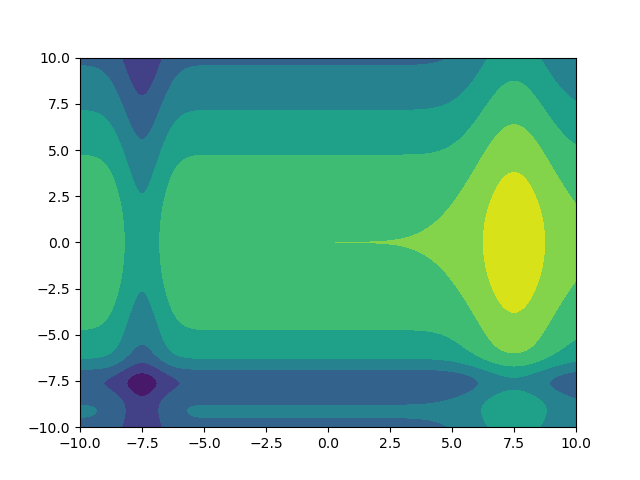
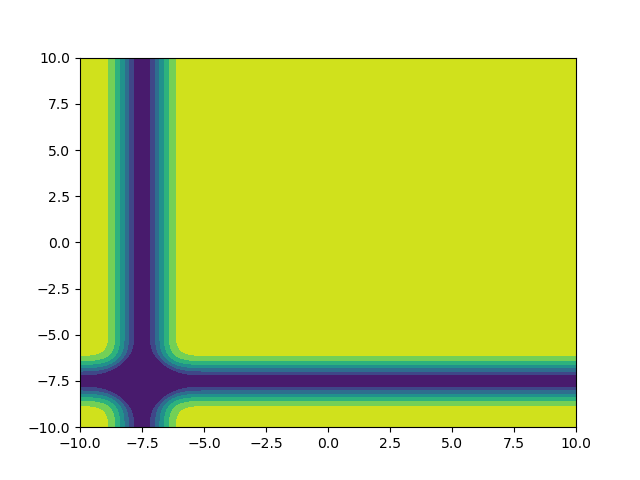
Its working!

diff --git a/el_band.py b/el_band.py
@@ -40,7 +40,7 @@ def mapCreation(offs, N = 10000, intv=(-10,10)):
     
     x   = np.linspace(*intv,N)
     X,Y = np.meshgrid(x,x)
-    Z = -1*np.exp(-(X-offs)**2)-1*np.exp(-(Y-offs)**2)+np.exp(-1/3*(X+offs)**2)+3*np.exp(-0.01*(Y)**2)
+    Z = -1*np.exp(-(X-offs)**2)-1*np.exp(-(Y-offs)**2)#-1*np.exp(-(X-offs)**2)-1*np.exp(-(Y-offs)**2)+np.exp(-1/3*(X+offs)**2)+3*np.exp(-0.01*(Y)**2)
     Z = np.where(Z<-1,-1,Z)
 
     plt.contourf(X,Y,Z)
@@ -50,7 +50,7 @@ def mapCreation(offs, N = 10000, intv=(-10,10)):
     np.save("data_raw",X,Y,Z)
     return x,x,Z
 
-def Energy(band,init,final,x_ext,y_ext,Z,N=1000,k=1e-3):
+def Energy(band,init,final,x_ext,y_ext,Z,N=1000,k=1):
     """
     These are both energies: the elastic band part, giving an energy contribution via Hooke's law and the potential energy/height.
     Necessary arguments:
@@ -72,7 +72,7 @@ def Energy(band,init,final,x_ext,y_ext,Z,N=1000,k=1e-3):
     idx_y = []
     #Creating Indices for Coordinates in Height
     #print(x_ext)
-    spacing = (max(x_ext)-min(x_ext))/1000
+    spacing = (max(x_ext)-min(x_ext))/N
 
     for x in X:
         comp_x = np.argwhere(np.where(np.abs(x_ext-x)<0.9*spacing,1,0))
@@ -110,29 +110,31 @@ def Energy(band,init,final,x_ext,y_ext,Z,N=1000,k=1e-3):
         else:
             results.append(k * ((X[idpoint-1]-X[idpoint])**2+(X[idpoint+1]-X[idpoint])**2 + \
                         (Y[idpoint-1]-Y[idpoint])**2 + (Y[idpoint+1]-Y[idpoint])**2))
-    print(np.sum(results),poten)
-    return poten
+    #print(np.sum(results),poten)
+    return poten + np.sum(results)
     
 
 
 
-N=10000
+N=5000
 offs = -3*10/4
 #giving the length of the band N and the initial/final endpoint coordinates p
-N_band  = 10
+N_band  = 50
 p_init  = (10,offs)
 p_final = (offs,10)
 #Creating a linear interpolation between the two points as a first guess
 band = np.zeros([N_band,2])
 band[:,0]   = np.linspace(p_init[0],p_final[0],N_band)
 band[:,1]   = np.linspace(p_init[1],p_final[1],N_band)
-band[4,0]   = -offs-0.5
+#band[4,0]   = +offs+0.5
 band_list = [band[i,:] for i in range(np.shape(band)[0])]
 #print(band)
 #data = pd.read_csv("map_data.csv")
 x,y,Z = mapCreation(offs,N=N)
 
-res = opt.minimize(Energy,band_list[1:-1],args=(band_list[0],band_list[-1],x,y,Z,N),options={'disp':True})
+bound = [(-10,10) for _ in range((N_band-2)*2)]
+spacing = (max(x)-min(x))/N
+res = opt.minimize(Energy,band_list[1:-1],args=(band_list[0],band_list[-1],x,y,Z,N),bounds=bound,jac='2-point',options={'disp':True,'finite_diff_rel_step':spacing})
 
 #%%
 new_x = np.array(res.x[::2])
@@ -140,7 +142,8 @@ new_y = np.array(res.x[1::2])
 new_band = np.stack((new_x,new_y))
 print(new_band)
 X,Y = np.meshgrid(x,y)
-plt.contourf(X,Y,Z)
+plt.contourf(X,Y,Z,levels=25,colormap='gist_heat')
+plt.colorbar()
 plt.scatter(new_band[0],new_band[1],c='green')
 plt.scatter(band[:,0],band[:,1],c='red',s=1)
 plt.show()
